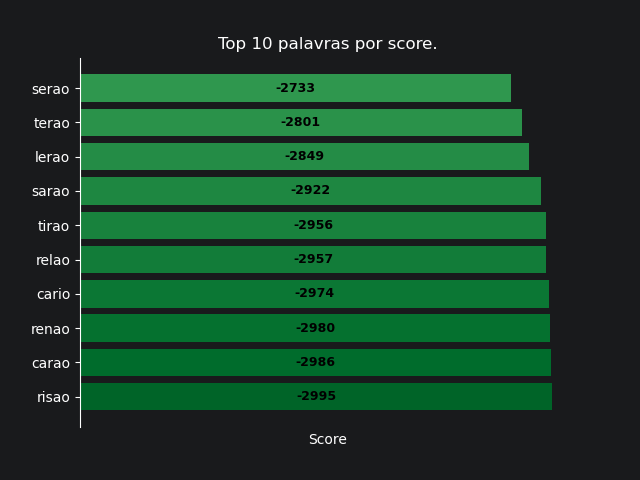
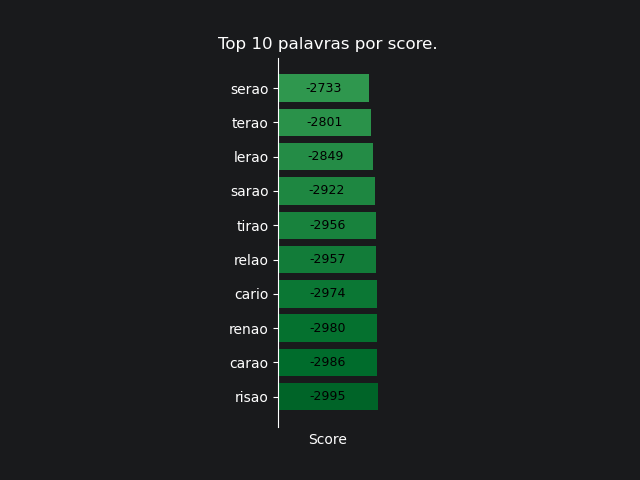
fix: graphs using the book storytelling with data

diff --git a/notebooks/termo_agents.py b/notebooks/termo_agents.py
@@ -272,3 +272,43 @@ def model_based_reflex_agent(histories, valid_answers=file_answers['word']):
     #ranked_words = ranking_words(valid_answers, valid_answers)
     #print(ranked_words)
     return max(all_ranked_words, key=all_ranked_words.get)
+
+def test_agents_exhaustive(agent, valid_answers):
+    tries_count = [0] * 7
+
+    for target_word in valid_answers:
+        history = []
+        tries = -1
+
+        for attempt in range(6):
+            if agent.__name__ == 'model_based_reflex_agent':
+                try_word = agent([history], valid_answers)
+            else:
+                try_word = agent(history, valid_answers)
+
+            history.append({try_word: try_word_check(try_word, target_word)})
+
+            if try_word == target_word:
+                tries = attempt
+                break
+
+        # if tries == -1:
+        #     print(target_word)
+
+        tries_count[tries] += 1
+
+    return tries_count
+
+
+# resultado = test_agents_exhaustive(model_based_reflex_agent, valid_answers)
+#
+# print("Distribuição de vitórias por tentativa (e derrotas no final):")
+# print(resultado)
+#
+# total_jogos = len(valid_answers)
+# vitorias = sum(resultado[:-1])
+# derrotas = resultado[-1]
+#
+# print(f"\nTotal de palavras testadas: {total_jogos}")
+# print(f"Taxa de acerto exata: {(vitorias / total_jogos) * 100:.2f}%")
+# print(f"Taxa de derrota exata: {(derrotas / total_jogos) * 100:.2f}%")

diff --git a/README.md b/README.md
@@ -38,11 +38,12 @@ Com o ambiente devidamente criado, foi desenvolvido primeiramente um bot que cal
 O agente _simple reflex_ foi criado para resolver o jogo do Termo na modalidade com uma única palavra, e, posteriormente, o _model based agent_ foi criado para solucionar as variações do jogo (Dueto e Quarteto), calculando o score e tentando a palavra com maior score com base nos demais jogos ocorrendo simultaneamente. Esse agente vence 99% das vezes.
 
 ### Métricas e validações
-Para calcular manualmente a precisão do bot com exatidão, o cálculo seria muito complexo, portanto utilizei uma simulação de Monte Carlo com 100.000 jogos para estimar a taxa de vitória do agente.
+Para calcular manualmente a precisão do bot com exatidão, utilizei uma simulação exaustiva com todas as 1442 possíveis palavras.
 
 <div align="center">
 
 <img src="attachments/ChartBlackDistribution.png"/>
+<img src="attachments/SingleTextNumber.png"/>
 
 </div>
 